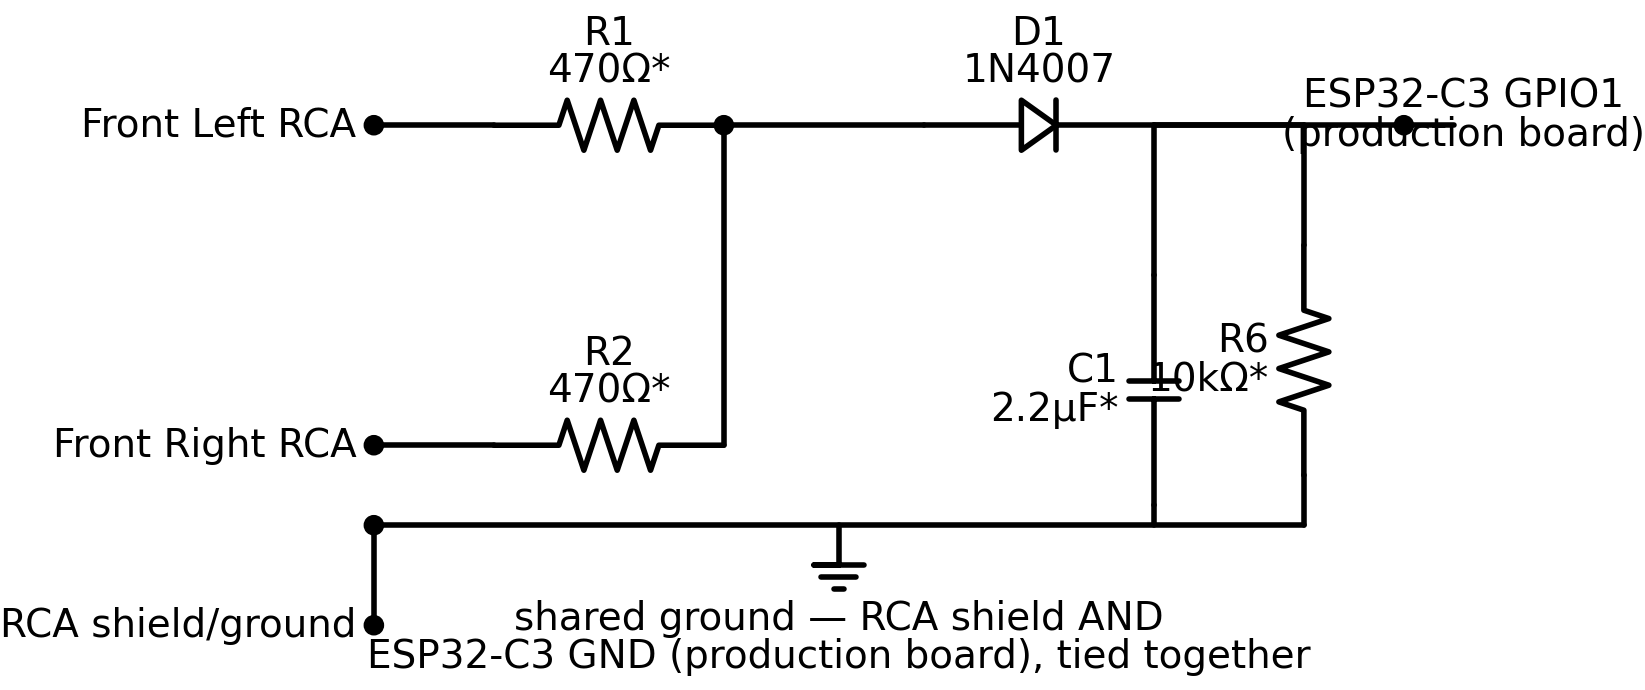
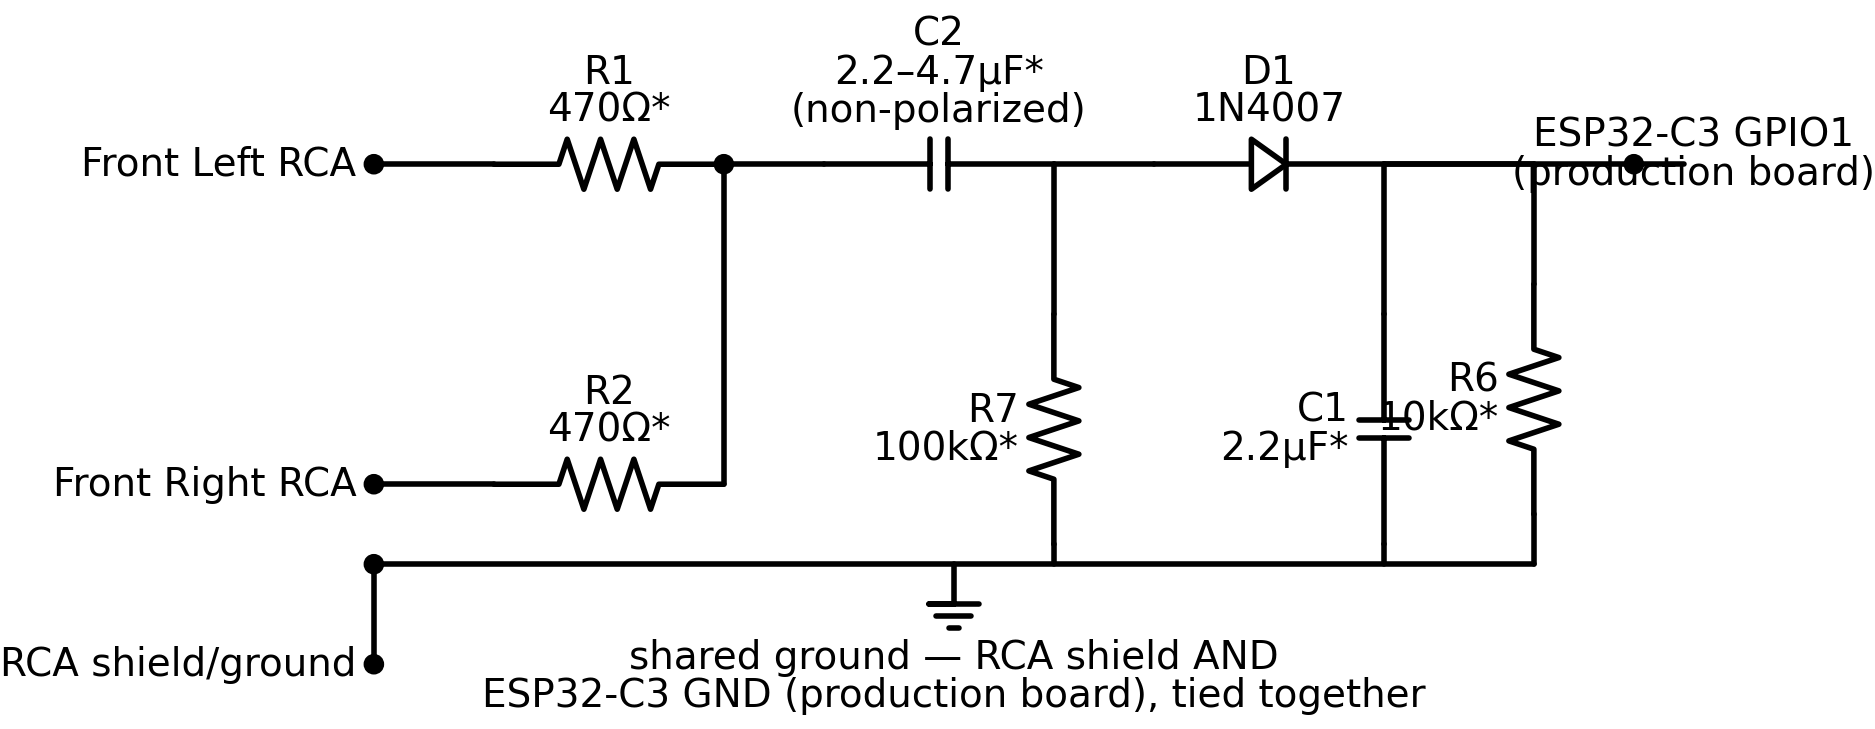
Update production schematic to show C2/R7, remove stale warning
Production circuit schematic redrawn to include the DC-blocking
coupling capacitor and its bleed resistor. Removed the now-stale
"out of date" note in hardware/audio-breakout.md pointing at this
image.

Changed region(s): [[0.0, 0.0304, 1.0, 0.9739]]

diff --git a/hardware/audio-breakout.md b/hardware/audio-breakout.md
@@ -126,8 +126,6 @@ Node B → ESP32-C3 GPIO1 (ADC input, production board)
 
 ![Production circuit schematic](../images/audio-circuit/production_circuit_schematic.png)
 
-**⚠ Out of date:** this image shows R5, R3/R4, and the old R1/R2 value (2.2kΩ), and predates C2/R7 entirely. Needs regenerating to match the component list above.
-
 `*` = expected to change once Phase 2 confirms real values. There is no longer a dedicated divider stage (R3/R4 removed); R1/R2 exist only for channel isolation and short-circuit protection. C2/R7 (coupling cap and its reference resistor) and R6 aren't marked — see the notes above for why they're protective/topology choices rather than level-tuned values.
 
 ### Production pinout (ESP32-C3, already installed)
